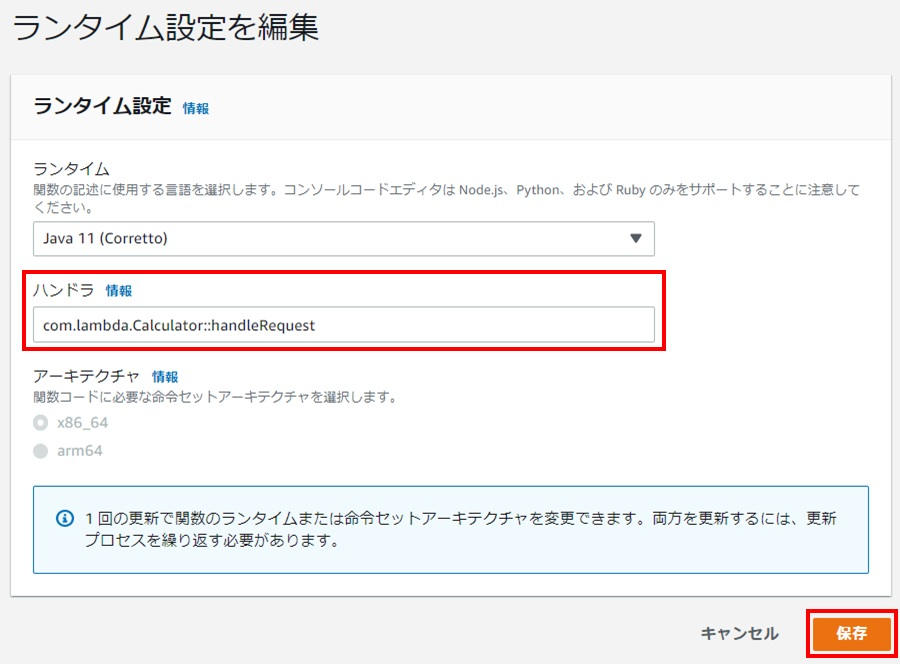
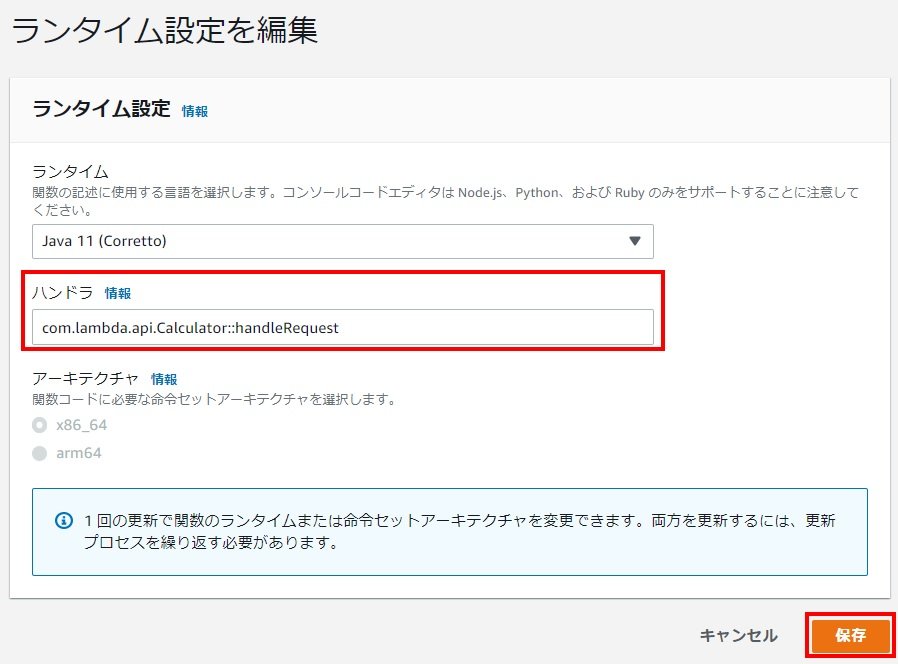
new

diff --git a/README.md b/README.md
@@ -6,10 +6,22 @@
 
 AWS Lambda（以下、Lambda）にアップロードするAPIをJavaで作成する。ここでは、リクエストで商品名、単価、数量を渡すと、レスポンスで税抜価格と税込価格を返すAPIを作成する。
 
-**com.lambda.data.Request.java**
+**pom.xml**
+
+```xml
+<dependencies>
+  <dependency>
+    <groupId>com.amazonaws</groupId>
+    <artifactId>aws-lambda-java-core</artifactId>
+    <version>1.2.0</version>
+  </dependency>
+</dependencies>
+```
+
+**com.lambda.dto.Request.java**
 
 ```java
-package com.lambda.data;
+package com.lambda.dto;
 
 public class Request {
   // 商品名
@@ -25,10 +37,10 @@ public class Request {
 }
 ```
 
-**com.lambda.data.Response.java**
+**com.lambda.dto.Response.java**
 
 ```java
-package com.lambda.data;
+package com.lambda.dto;
 
 public class Response {
   // リクエスト
@@ -44,15 +56,15 @@ public class Response {
 }
 ```
 
-**com.lambda.Calculator.java**
+**com.lambda.api.Calculator.java**
 
 ```java
 package com.lambda;
 
 import com.amazonaws.services.lambda.runtime.Context;
 import com.amazonaws.services.lambda.runtime.RequestHandler;
-import com.lambda.data.Request;
-import com.lambda.data.Response;
+import com.lambda.dto.Request;
+import com.lambda.dto.Response;
 
 public class Calculator implements RequestHandler<Request, Response> {
   @Override
@@ -154,4 +166,162 @@ Windowsでは、次のcurlコマンドで通信確認ができる。
 
 ```
 curl -X POST [API Gatewayのエンドポイント] -H "Content-Type: application/json" -d {\"itemName\":\"Apple\",\"price\":100,\"quantity\":5}
+```
+
+API Gatewayのエンドポイントは、Lambda関数のトリガータブで確認ができる。
+
+<img src="img/03_01.jpg" width="700">
+
+<br><br>
+
+## 4. WebアプリからAPIを使用する
+
+API Gatewayで公開したLambda関数に対して、Webアプリから非同期通信でリクエストを送信する。
+
+### 4.1. CORSの有効化
+
+Webアプリ（外部サイト）からAPIを使用するためには、まずCORSを有効化する必要がある。
+
+> CORS（Cross-Origin Resource Sharing）とは、あるオリジンで動いているWebアプリに対して、異なるオリジンとの通信を可能にするセキュリティ上の仕組みである。
+
+<br>
+
+API Gatewayで、対象のリソースを選択し、アクションから[CORS の有効化]を選択する。
+
+<img src="img/04_01.jpg" width="250">
+
+[CORSを有効にして既存のCORSヘッダーを置換]ボタンをクリックし、表示される確認画面でも[はい、既存の値を置き換えます]ボタンをクリックする。
+
+<img src="img/04_02.jpg" width="700">
+
+CORSヘッダーの置き換えがされ、OPTIONSメソッドが追加されたことを確認したら、**再度APIのデプロイをする。**
+
+<br>
+
+### 4.2. Webアプリからのリクエスト送信
+
+HTMLの画面からAPIに対してデータを送って動作を確認する。データの送信には、JavaScriptの非同期通信（Axios）を使用する。
+
+**index.html**
+
+```html
+<!DOCTYPE html>
+<html lang="ja">
+<head>
+  <meta charset="UTF-8">
+  <title>Lambda Calculation</title>
+  <link rel="stylesheet" href="https://stackpath.bootstrapcdn.com/bootstrap/4.3.1/css/bootstrap.min.css">
+  <script src="https://code.jquery.com/jquery-3.3.1.slim.min.js"></script>
+  <script src="https://cdnjs.cloudflare.com/ajax/libs/popper.js/1.14.7/umd/popper.min.js"></script>
+  <script src="https://stackpath.bootstrapcdn.com/bootstrap/4.3.1/js/bootstrap.min.js"></script>
+  <script src="https://cdn.jsdelivr.net/npm/axios/dist/axios.min.js"></script>
+  <script type="text/javascript">
+  async function calc() {
+    // リクエストデータ（JSON）
+    const params = JSON.stringify({
+      itemName: $('#itemName').val(),
+      price: $('#price').val(),
+      quantity: $('#quantity').val()
+    });
+
+    // 非同期通信
+    await axios.post("API Gatewayのエンドポイント", params)
+      // 成功時の処理
+      .then((response) => {
+        // レスポンスデータをコンソールに表示する
+        console.log(response.data);
+      })
+      // エラー時の処理
+      .catch((err) => {
+        alert('計算時にエラーが発生しました。');
+        console.log("err:", err);
+      });
+  }
+  </script>
+</head>
+<body>
+  <div class="container mt-3">
+    <div class="row">
+      <header class="col-10">
+        <h2>Lambda Calculation</h2>
+      </header>
+    </div>
+    <div class="row">
+      <article class="col-10">
+        <div class="form-group">
+          <label for="itemName">商品名：</label>
+          <input type="text" class="form-control" id="itemName" name="itemName" required>
+        </div>
+        <div class="form-group">
+          <label for="price">単価：</label>
+          <input type="number" class="form-control text-right w-50" id="price" name="price" min="0" max="1000000" value="0" required>
+        </div>
+        <div class="form-group">
+          <label for="quantity">数量：</label>
+          <input type="number" class="form-control text-right w-50" id="quantity" name="quantity" min="0" max="100" value="0" required>
+        </div>
+        <button type="button" class="btn btn-primary" onclick="calc()">送信</button>
+      </article>
+    </div>
+  </div>
+</body>
+</html>
+```
+
+<br>
+
+ローカルでindex.htmlを開き、各値を入力し、[送信]ボタンをクリックする。
+
+<img src="img/04_03.jpg" width="500">
+
+ブラウザの開発者ツール > コンソール画面を開き、レスポンスデータ（税抜価格や税込価格）が表示されることを確認する。
+
+<img src="img/04_04.jpg" width="600">
+
+<br><br>
+
+## Appendix. GETメソッドにおけるクエリパラメータの送信
+
+GETメソッドにおいてURLクエリパラメータをLambda関数に渡すためには、API Gateway側でクエリパラメータをJSONに置換して送るよう設定する必要がある。
+
+API Gatewayで、対象リソースにGETメソッドを追加する。追加後、[統合リクエスト]リンクをクリックする。
+
+<img src="img/A_01.jpg" width="700">
+
+[URLクエリ文字列パラメータ]欄にて、[クエリ文字列の追加]リンクをクリックし、キーとなる名前とマッピング元を下記のように設定する。
+
+| 名前 | マッピング元 |
+|------|-------------|
+| itemName | 'method.request.querystring.itemName' |
+| price | 'method.request.querystring.price' |
+| quantity | 'method.request.querystring.quantity' |
+
+<img src="img/A_02.jpg" width="700">
+
+<br>
+
+[マッピングテンプレート]欄にて、下記のように設定する。
+
+- リクエスト本文のパススルー
+    - テンプレートが定義されていない場合（推奨）
+- Context-type
+    - application/json
+- テンプレート
+
+```
+{
+  "itemName": "$input.params('itemName')",
+  "price": "$input.params('price')",
+  "quantity": "$input.params('quantity')"
+}
+```
+
+<img src="img/A_03.jpg" width="700">
+
+<br><br>
+
+次のcurlコマンドで通信確認ができる。
+
+```
+curl -X GET "API Gatewayのエンドポイント?itemName=Apple&price=100&quantity=5"
 ```
